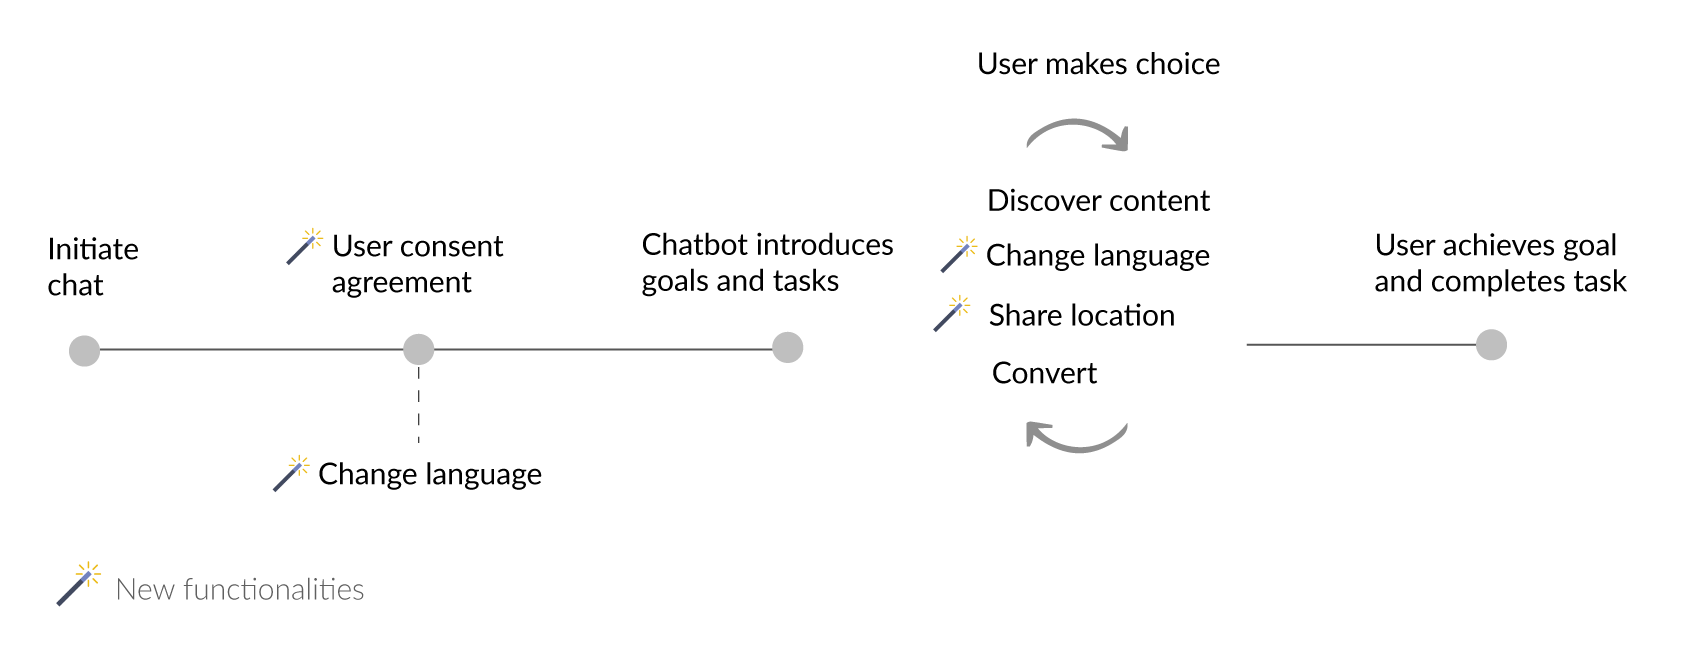
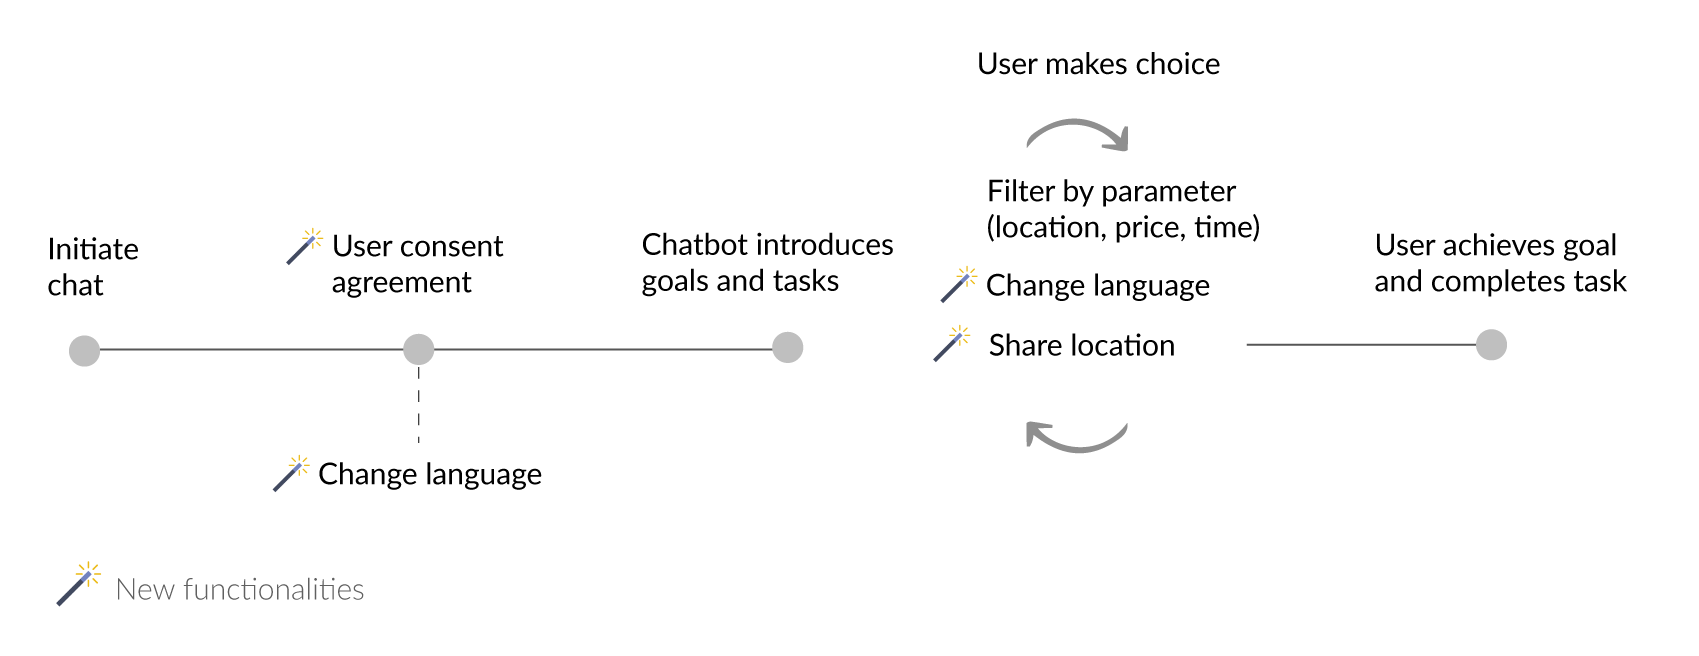
convo-design update

Changed region(s): [[0.5303, 0.2744, 0.7487, 0.5793]]

diff --git a/conversation-design.html b/conversation-design.html
@@ -132,8 +132,8 @@ height="0" width="0" style="display:none;visibility:hidden"></iframe></noscript>
         <div class="container text-center" style="max-width: 600px; padding-top: 10px; padding-right: 10px; padding-left: 10px;">  
             <h2 class="section-heading">Iterating the Conversation Design</h2>
             <br>
-            <p>I joined the project mid-way and was tasked to design 3 new functionalities, particularly for the onboarding and user tasks. </p>
-            <p>The chatbot's main conversation flow (or primary user journey) asks users to choose from a set of parameters, which effectively act as filters for the results.</p>
+            <p>I joined the project mid-way and was tasked to improve 3 functionalities, particularly for the onboarding and user tasks. </p>
+            <p>The chatbot's main conversation flow (or primary user journey) asks users to choose from a set of parameters such as location, price and time.  These choices effectively serve as filters for the results.</p>
             <p> If the user is not satisfied with the result, they can repeat the process and answer any one of the parameters again as they like. </p>
         </div>
         
@@ -224,8 +224,8 @@ height="0" width="0" style="display:none;visibility:hidden"></iframe></noscript>
             <br>
             
             <h3 class="section-heading"> When Language Default Fails</h3>
-            <p>Hong Kong is a relatively bi-lingual market, but Cantonese (a dialect of Chinese) is still the primary language over English.  As a result, global brands like Google has defaulted our online experiences to Cantonese. </p>
-            <p>For example, my Google account preferences are all set in English.  But whenever I open a Google Maps link or connect with my Google account for logins, the default language is Cantonese.</p>
+            <p>Hong Kong is a relatively bi-lingual market, but Cantonese (a dialect of Chinese) is still the primary language over English.  As a result, global brands like Google defaults our online experiences to Cantonese. </p>
+            <p>For me, my Google account preferences are all set in English.  But whenever I open a Google Maps link or connect with my Google account for logins, the default language is Cantonese.</p>
             <p>Luckily, I am a bi-lingual. But for English-speakers, how would they know what the change language option is if it’s in a foreign language?</p>
             
             <div class="pfolio-img">
@@ -255,7 +255,16 @@ height="0" width="0" style="display:none;visibility:hidden"></iframe></noscript>
 
             <h3 class="section-heading"><img src="img/portfolio/convodesign/enhancement.png" class="pstory-icon img-responsive"> Share Location</h3>
             <br>
-            <p>One of the ways users can discover offers is to share their current location and find out what's near them.</p>
+            <p>One of the parameters to searching offers is by sharing location and discovering what's nearby.</p>
+            <div class="pfolio-img">
+                <img src="img/portfolio/convodesign/search-by-location.png" class="img-responsive sr-box adjust3">
+                <br>
+                <p class="story-caption">Testing the sequence of changing languages either before or after user consent</p>
+            </div>
+            <p>As this experience is used in the context of walking around the city and it's easy to get distracted by crossing street lights, avoiding pedestrians or replying to friends' messages.  Once you move around, the location shared is cached but longer becomes relevant if you continue searching for more by filtering parameters.  As a result, when you click 'Get Directions', your current location is no longer accurate and becomes misleading.</p>
+
+
+            <p>Instead of prompting directions to the place, I changed to just the location of the offer.  If users want to prompt the directions, they can.  That way, it would reduce the likelihood of displaying directions based on last cached location.</p>
 
             <h3 class="section-heading"><img src="img/portfolio/convodesign/language.png" class="pstory-icon img-responsive" style="display: inline-block; width: 25px; height: auto;">  About Localization</h3>
             <p>The experience needs to be consistent:
